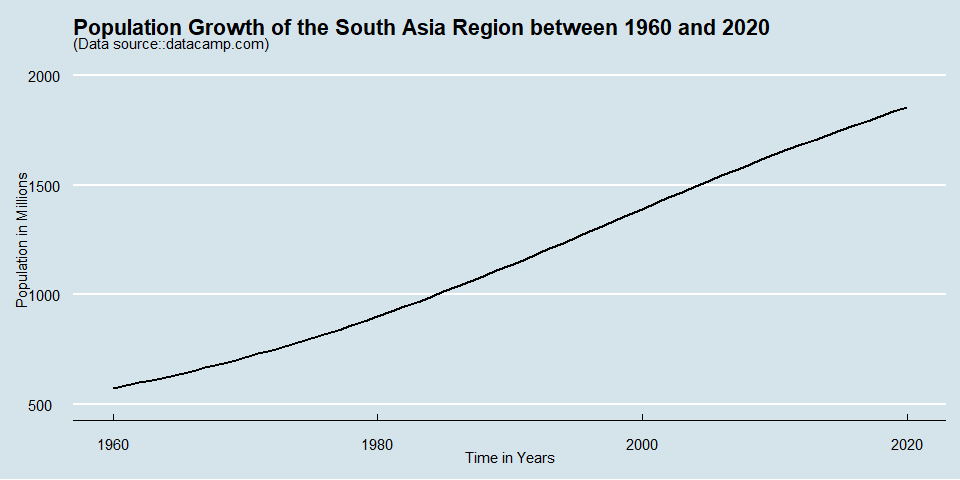
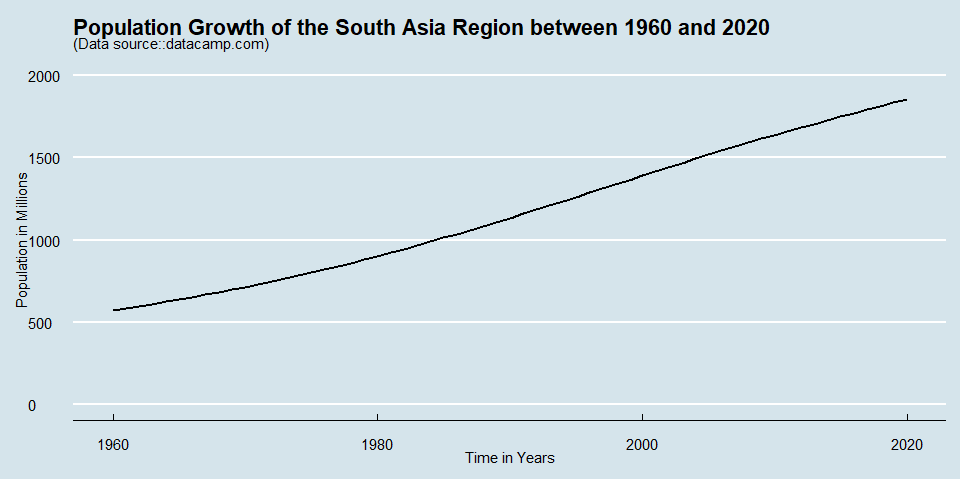
changes

diff --git a/script.md b/script.md
@@ -372,6 +372,7 @@ world_pop %>%
   # create the plot's base layer
   ggplot(aes(year, population))+
   geom_line(size = 1)+
+  ylim(0, 60)+
   theme_economist()+
   labs(title = "Population of Kenya between 1960 and 2020",
        y = "Population in Millions",
@@ -507,6 +508,7 @@ tail(summarized_latin)
 summarized_latin %>% 
   ggplot(aes(year, population))+
   geom_line(size = 1)+
+  ylim(0, 800)+
   theme_economist()+
   labs(title = "Population Growth of the Latin America & Caribbean Region between 1960 and 2020",
        y = "Population in Millions",
@@ -600,7 +602,7 @@ tail(summarized_south_asia)
 summarized_south_asia %>% 
   ggplot(aes(year, population))+
   geom_line(size = 1)+
-  ylim(500, 2000)+
+  ylim(0, 2000)+
   theme_economist()+
   labs(title = "Population Growth of the South Asia Region between 1960 and 2020",
        y = "Population in Millions",
@@ -694,6 +696,7 @@ tail(summarized_sub_saharan_africa)
 summarized_sub_saharan_africa %>% 
   ggplot(aes(year, population))+
   geom_line(size = 1)+
+  ylim(0, 1200)+
   theme_economist()+
   labs(title = "Population Growth of the Sub-Saharan Africa Region between 1960 and 2020",
        y = "Population in Millions",
@@ -709,24 +712,22 @@ summarized_sub_saharan_africa <- summarized_sub_saharan_africa %>%
   mutate(population_lag = lag(population),
          growth_rate = (population- population_lag)/population*100)
 
-#print summarized_south_asia
-summarized_sub_saharan_africa
+head(summarized_sub_saharan_africa, 1)
 ```
 
-    ## # A tibble: 61 × 4
-    ##     year population population_lag growth_rate
-    ##    <dbl>      <dbl>          <dbl>       <dbl>
-    ##  1  1960       227.            NA        NA   
-    ##  2  1961       233.           227.        2.29
-    ##  3  1962       238.           233.        2.33
-    ##  4  1963       244.           238.        2.37
-    ##  5  1964       250.           244.        2.39
-    ##  6  1965       256.           250.        2.42
-    ##  7  1966       262.           256.        2.44
-    ##  8  1967       269.           262.        2.46
-    ##  9  1968       276.           269.        2.49
-    ## 10  1969       283.           276.        2.52
-    ## # … with 51 more rows
+    ## # A tibble: 1 × 4
+    ##    year population population_lag growth_rate
+    ##   <dbl>      <dbl>          <dbl>       <dbl>
+    ## 1  1960       227.             NA          NA
+
+``` r
+tail(summarized_sub_saharan_africa, 1)
+```
+
+    ## # A tibble: 1 × 4
+    ##    year population population_lag growth_rate
+    ##   <dbl>      <dbl>          <dbl>       <dbl>
+    ## 1  2020      1133.          1103.        2.56
 
 ``` r
 # calculate the average growth rate for all years
@@ -739,8 +740,9 @@ summarize(mean_growth_rate = mean(growth_rate, na.rm= T))
     ##              <dbl>
     ## 1             2.64
 
-According to the analysis above, Sub-Saharan Africa’s population
-expanded as well, first at a declining rate and later a rising one.
-Sub-Saharan Africa experienced an average growth rate of 2.641404
-percent from 1960 to 2020, which was higher than that of the Latin &
-Caribbean and South Asia regions.
+**Insights** According to the analysis above, Sub-Saharan Africa’s
+population expanded as well, first at a declining rate and later a
+rising one. The population figure in 1960 was about 227 million and
+about 1,132 million in 2020. Sub-Saharan Africa experienced an average
+growth rate of 2.641404 percent from 1960 to 2020, which was higher than
+that of the Latin & Caribbean and South Asia regions.
